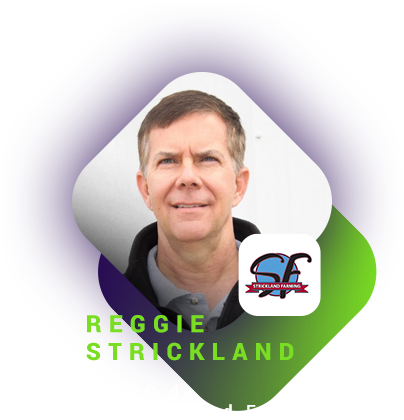
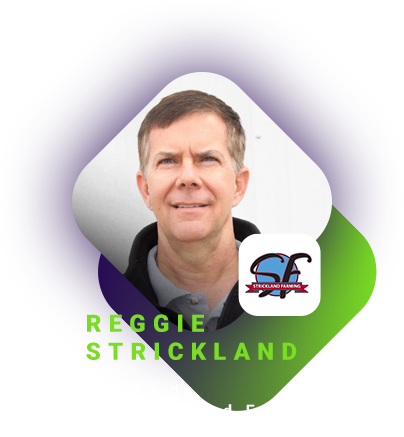
Correção do badge strickland e adição da div para icone "e mais..."

diff --git a/versao-p-aprovacao.html b/versao-p-aprovacao.html
@@ -160,7 +160,7 @@
             <div class="palestrante">
               <img data-parallax-depth=".004" class="palestrante-bg" src="images/bg-palestrante.png">
               <img class="palestrante-photo palestrante-photo-shadow" src="images/palestrante-reggie-strickland.png">
-              <img data-parallax-depth=".012" src="images/badge-syngenta.png" class="palestrante-badge">
+              <img data-parallax-depth=".012" src="images/badge-strickland.png" class="palestrante-badge">
               <div data-parallax-depth=".016" class="palestrante-name">Reggie<br> Strickland</div>
               <div data-parallax-depth=".02" class="palestrante-description">CEO da<br> <strong>Strickland <br>Farming</strong></div>
             </div>
@@ -452,6 +452,10 @@
               <div data-parallax-depth=".016" class="palestrante-name">Raul<br> Guaragna</div>
               <div data-parallax-depth=".02" class="palestrante-description">Diretor de<br> operações da<br> <strong>Tereos</strong></div>
             </div>
+          </div>
+          <div class="col-md-4 d-flex justify-content-center align-items-center">
+
+
           </div>
 
         </div>
